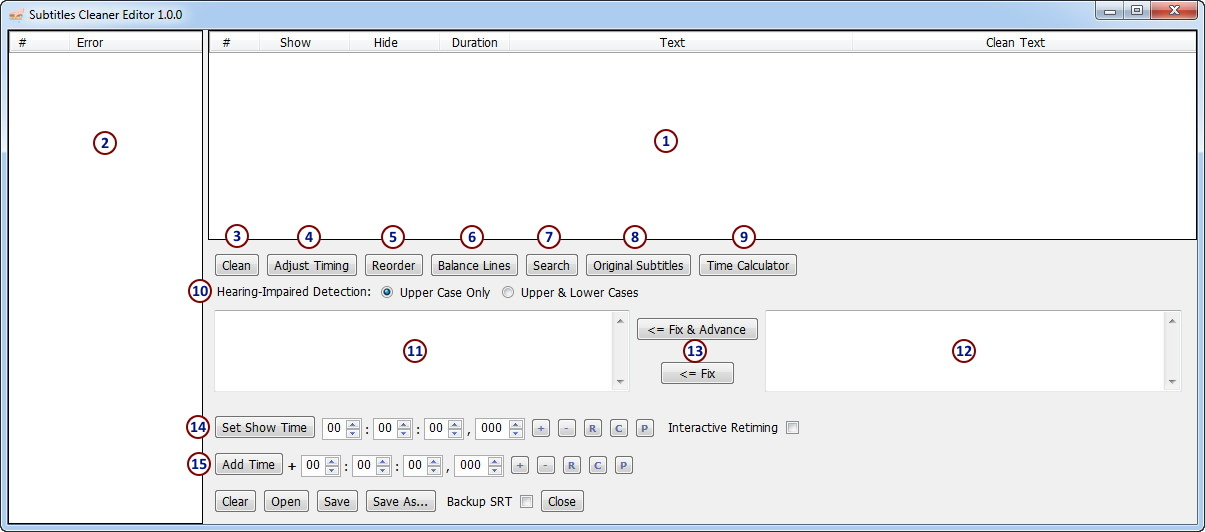
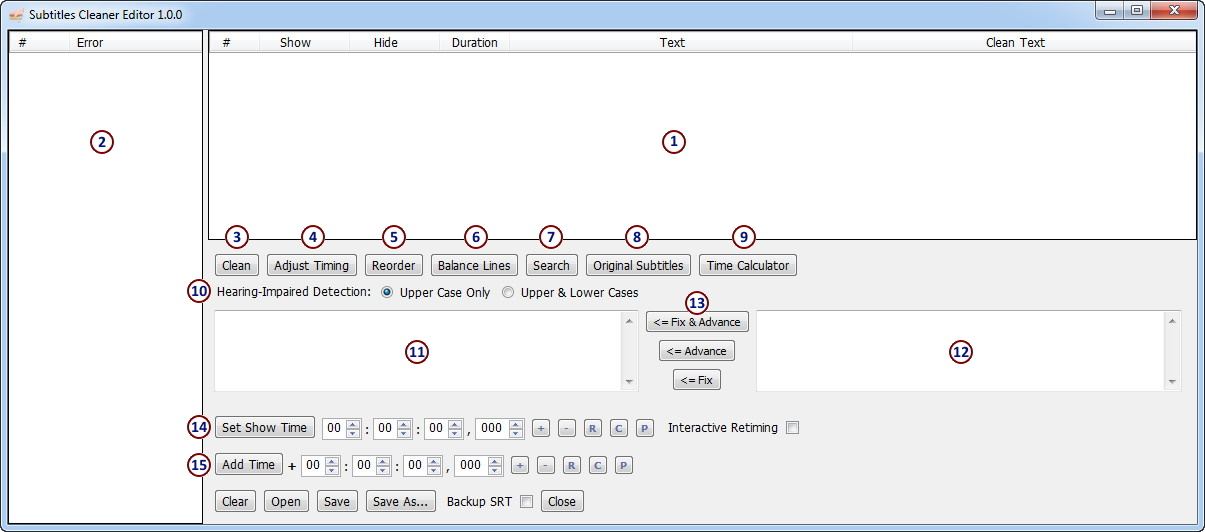
Close #1

diff --git a/SubtitlesCleanerEditor/SubtitlesCleanerEditorForm.Designer.cs b/SubtitlesCleanerEditor/SubtitlesCleanerEditorForm.Designer.cs
@@ -50,11 +50,13 @@
             this.ColumnDuration = new System.Windows.Forms.DataGridViewTextBoxColumn();
             this.ColumnText = new System.Windows.Forms.DataGridViewTextBoxColumn();
             this.ColumnCleanText = new System.Windows.Forms.DataGridViewTextBoxColumn();
+            this.flowLayoutPanel6 = new System.Windows.Forms.FlowLayoutPanel();
+            this.btnFixAndAdvance = new System.Windows.Forms.Button();
+            this.btnAdvance = new System.Windows.Forms.Button();
+            this.btnFix = new System.Windows.Forms.Button();
             this.tableLayoutPanel1 = new System.Windows.Forms.TableLayoutPanel();
             this.lblCleanLineLengths = new System.Windows.Forms.Label();
-            this.btnFixText = new System.Windows.Forms.Button();
             this.lblLineLengths = new System.Windows.Forms.Label();
-            this.btnFixTextAndAdvance = new System.Windows.Forms.Button();
             this.txtCleanSubtitle = new System.Windows.Forms.TextBox();
             this.txtSubtitle = new SubtitlesCleanerEditor.TextBox();
             this.flowLayoutPanel2 = new System.Windows.Forms.FlowLayoutPanel();
@@ -95,6 +97,7 @@
             this.splitContainer2.Panel2.SuspendLayout();
             this.splitContainer2.SuspendLayout();
             ((System.ComponentModel.ISupportInitialize)(this.lstEditor)).BeginInit();
+            this.flowLayoutPanel6.SuspendLayout();
             this.tableLayoutPanel1.SuspendLayout();
             this.flowLayoutPanel2.SuspendLayout();
             this.flowLayoutPanel1.SuspendLayout();
@@ -296,6 +299,64 @@
             this.ColumnCleanText.ReadOnly = true;
             this.ColumnCleanText.Resizable = System.Windows.Forms.DataGridViewTriState.False;
             // 
+            // flowLayoutPanel6
+            // 
+            this.flowLayoutPanel6.AutoSize = true;
+            this.flowLayoutPanel6.AutoSizeMode = System.Windows.Forms.AutoSizeMode.GrowAndShrink;
+            this.flowLayoutPanel6.Controls.Add(this.btnFixAndAdvance);
+            this.flowLayoutPanel6.Controls.Add(this.btnAdvance);
+            this.flowLayoutPanel6.Controls.Add(this.btnFix);
+            this.flowLayoutPanel6.Dock = System.Windows.Forms.DockStyle.Fill;
+            this.flowLayoutPanel6.FlowDirection = System.Windows.Forms.FlowDirection.TopDown;
+            this.flowLayoutPanel6.Location = new System.Drawing.Point(431, 0);
+            this.flowLayoutPanel6.Margin = new System.Windows.Forms.Padding(0);
+            this.flowLayoutPanel6.Name = "flowLayoutPanel6";
+            this.tableLayoutPanel1.SetRowSpan(this.flowLayoutPanel6, 2);
+            this.flowLayoutPanel6.Size = new System.Drawing.Size(111, 88);
+            this.flowLayoutPanel6.TabIndex = 10;
+            // 
+            // btnFixAndAdvance
+            // 
+            this.btnFixAndAdvance.Anchor = System.Windows.Forms.AnchorStyles.None;
+            this.btnFixAndAdvance.AutoSize = true;
+            this.btnFixAndAdvance.AutoSizeMode = System.Windows.Forms.AutoSizeMode.GrowAndShrink;
+            this.btnFixAndAdvance.Font = new System.Drawing.Font("Tahoma", 8F, System.Drawing.FontStyle.Regular, System.Drawing.GraphicsUnit.Point, ((byte)(0)));
+            this.btnFixAndAdvance.Location = new System.Drawing.Point(3, 3);
+            this.btnFixAndAdvance.Name = "btnFixAndAdvance";
+            this.btnFixAndAdvance.Size = new System.Drawing.Size(105, 23);
+            this.btnFixAndAdvance.TabIndex = 7;
+            this.btnFixAndAdvance.Text = "<= Fix && Advance";
+            this.btnFixAndAdvance.UseVisualStyleBackColor = true;
+            this.btnFixAndAdvance.Click += new System.EventHandler(this.btnFixAndAdvance_Click);
+            // 
+            // btnAdvance
+            // 
+            this.btnAdvance.Anchor = System.Windows.Forms.AnchorStyles.None;
+            this.btnAdvance.AutoSize = true;
+            this.btnAdvance.AutoSizeMode = System.Windows.Forms.AutoSizeMode.GrowAndShrink;
+            this.btnAdvance.Font = new System.Drawing.Font("Tahoma", 8F, System.Drawing.FontStyle.Regular, System.Drawing.GraphicsUnit.Point, ((byte)(0)));
+            this.btnAdvance.Location = new System.Drawing.Point(16, 32);
+            this.btnAdvance.Name = "btnAdvance";
+            this.btnAdvance.Size = new System.Drawing.Size(78, 23);
+            this.btnAdvance.TabIndex = 9;
+            this.btnAdvance.Text = "<= Advance";
+            this.btnAdvance.UseVisualStyleBackColor = true;
+            this.btnAdvance.Click += new System.EventHandler(this.btnAdvance_Click);
+            // 
+            // btnFix
+            // 
+            this.btnFix.Anchor = System.Windows.Forms.AnchorStyles.None;
+            this.btnFix.AutoSize = true;
+            this.btnFix.AutoSizeMode = System.Windows.Forms.AutoSizeMode.GrowAndShrink;
+            this.btnFix.Font = new System.Drawing.Font("Tahoma", 8F, System.Drawing.FontStyle.Regular, System.Drawing.GraphicsUnit.Point, ((byte)(0)));
+            this.btnFix.Location = new System.Drawing.Point(30, 61);
+            this.btnFix.Name = "btnFix";
+            this.btnFix.Size = new System.Drawing.Size(50, 23);
+            this.btnFix.TabIndex = 8;
+            this.btnFix.Text = "<= Fix";
+            this.btnFix.UseVisualStyleBackColor = true;
+            this.btnFix.Click += new System.EventHandler(this.btnFix_Click);
+            // 
             // tableLayoutPanel1
             // 
             this.tableLayoutPanel1.Anchor = ((System.Windows.Forms.AnchorStyles)(((System.Windows.Forms.AnchorStyles.Top | System.Windows.Forms.AnchorStyles.Left) 
@@ -304,10 +365,9 @@
             this.tableLayoutPanel1.ColumnStyles.Add(new System.Windows.Forms.ColumnStyle(System.Windows.Forms.SizeType.Percent, 50F));
             this.tableLayoutPanel1.ColumnStyles.Add(new System.Windows.Forms.ColumnStyle());
             this.tableLayoutPanel1.ColumnStyles.Add(new System.Windows.Forms.ColumnStyle(System.Windows.Forms.SizeType.Percent, 50F));
+            this.tableLayoutPanel1.Controls.Add(this.flowLayoutPanel6, 1, 0);
             this.tableLayoutPanel1.Controls.Add(this.lblCleanLineLengths, 2, 2);
-            this.tableLayoutPanel1.Controls.Add(this.btnFixText, 1, 1);
             this.tableLayoutPanel1.Controls.Add(this.lblLineLengths, 0, 2);
-            this.tableLayoutPanel1.Controls.Add(this.btnFixTextAndAdvance, 1, 0);
             this.tableLayoutPanel1.Controls.Add(this.txtCleanSubtitle, 2, 0);
             this.tableLayoutPanel1.Controls.Add(this.txtSubtitle, 0, 0);
             this.tableLayoutPanel1.Location = new System.Drawing.Point(3, 63);
@@ -323,22 +383,10 @@
             // 
             this.lblCleanLineLengths.AutoSize = true;
             this.lblCleanLineLengths.Font = new System.Drawing.Font("Tahoma", 9F, System.Drawing.FontStyle.Bold, System.Drawing.GraphicsUnit.Point, ((byte)(0)));
-            this.lblCleanLineLengths.Location = new System.Drawing.Point(554, 88);
+            this.lblCleanLineLengths.Location = new System.Drawing.Point(545, 88);
             this.lblCleanLineLengths.Name = "lblCleanLineLengths";
             this.lblCleanLineLengths.Size = new System.Drawing.Size(0, 14);
             this.lblCleanLineLengths.TabIndex = 0;
-            // 
-            // btnFixText
-            // 
-            this.btnFixText.Anchor = System.Windows.Forms.AnchorStyles.None;
-            this.btnFixText.AutoSize = true;
-            this.btnFixText.Location = new System.Drawing.Point(449, 54);
-            this.btnFixText.Name = "btnFixText";
-            this.btnFixText.Size = new System.Drawing.Size(75, 24);
-            this.btnFixText.TabIndex = 3;
-            this.btnFixText.Text = "<= Fix";
-            this.btnFixText.UseVisualStyleBackColor = true;
-            this.btnFixText.Click += new System.EventHandler(this.btnFixText_Click);
             // 
             // lblLineLengths
             // 
@@ -349,31 +397,19 @@
             this.lblLineLengths.Size = new System.Drawing.Size(0, 14);
             this.lblLineLengths.TabIndex = 0;
             // 
-            // btnFixTextAndAdvance
-            // 
-            this.btnFixTextAndAdvance.Anchor = System.Windows.Forms.AnchorStyles.None;
-            this.btnFixTextAndAdvance.AutoSize = true;
-            this.btnFixTextAndAdvance.Location = new System.Drawing.Point(425, 10);
-            this.btnFixTextAndAdvance.Name = "btnFixTextAndAdvance";
-            this.btnFixTextAndAdvance.Size = new System.Drawing.Size(123, 24);
-            this.btnFixTextAndAdvance.TabIndex = 2;
-            this.btnFixTextAndAdvance.Text = "<= Fix && Advance";
-            this.btnFixTextAndAdvance.UseVisualStyleBackColor = true;
-            this.btnFixTextAndAdvance.Click += new System.EventHandler(this.btnFixTextAndAdvance_Click);
-            // 
             // txtCleanSubtitle
             // 
             this.txtCleanSubtitle.BackColor = System.Drawing.Color.White;
             this.txtCleanSubtitle.Dock = System.Windows.Forms.DockStyle.Fill;
             this.txtCleanSubtitle.Font = new System.Drawing.Font("Consolas", 11.25F, System.Drawing.FontStyle.Regular, System.Drawing.GraphicsUnit.Point, ((byte)(0)));
             this.txtCleanSubtitle.ForeColor = System.Drawing.Color.Black;
-            this.txtCleanSubtitle.Location = new System.Drawing.Point(554, 3);
+            this.txtCleanSubtitle.Location = new System.Drawing.Point(545, 3);
             this.txtCleanSubtitle.Multiline = true;
             this.txtCleanSubtitle.Name = "txtCleanSubtitle";
             this.txtCleanSubtitle.ReadOnly = true;
             this.tableLayoutPanel1.SetRowSpan(this.txtCleanSubtitle, 2);
             this.txtCleanSubtitle.ScrollBars = System.Windows.Forms.ScrollBars.Vertical;
-            this.txtCleanSubtitle.Size = new System.Drawing.Size(417, 82);
+            this.txtCleanSubtitle.Size = new System.Drawing.Size(426, 82);
             this.txtCleanSubtitle.TabIndex = 4;
             this.txtCleanSubtitle.TextAlign = System.Windows.Forms.HorizontalAlignment.Center;
             // 
@@ -388,7 +424,7 @@
             this.txtSubtitle.Name = "txtSubtitle";
             this.tableLayoutPanel1.SetRowSpan(this.txtSubtitle, 2);
             this.txtSubtitle.ScrollBars = System.Windows.Forms.ScrollBars.Vertical;
-            this.txtSubtitle.Size = new System.Drawing.Size(416, 82);
+            this.txtSubtitle.Size = new System.Drawing.Size(425, 82);
             this.txtSubtitle.TabIndex = 1;
             this.txtSubtitle.TextAlign = System.Windows.Forms.HorizontalAlignment.Center;
             this.txtSubtitle.LeaveWithChangedText += new System.EventHandler<System.Tuple<SubtitlesCleanerEditor.EditorRow, string>>(this.txtSubtitle_LeaveWithChangedText);
@@ -786,6 +822,8 @@
             ((System.ComponentModel.ISupportInitialize)(this.splitContainer2)).EndInit();
             this.splitContainer2.ResumeLayout(false);
             ((System.ComponentModel.ISupportInitialize)(this.lstEditor)).EndInit();
+            this.flowLayoutPanel6.ResumeLayout(false);
+            this.flowLayoutPanel6.PerformLayout();
             this.tableLayoutPanel1.ResumeLayout(false);
             this.tableLayoutPanel1.PerformLayout();
             this.flowLayoutPanel2.ResumeLayout(false);
@@ -846,11 +884,13 @@
         private System.Windows.Forms.DataGridViewTextBoxColumn ColumnText;
         private System.Windows.Forms.DataGridViewTextBoxColumn ColumnCleanText;
         private System.Windows.Forms.TextBox txtCleanSubtitle;
-        private System.Windows.Forms.Button btnFixTextAndAdvance;
-        private System.Windows.Forms.Button btnFixText;
         private System.Windows.Forms.TableLayoutPanel tableLayoutPanel1;
         private System.Windows.Forms.Label lblLineLengths;
         private System.Windows.Forms.Label lblCleanLineLengths;
+        private System.Windows.Forms.Button btnAdvance;
+        private System.Windows.Forms.Button btnFix;
+        private System.Windows.Forms.Button btnFixAndAdvance;
+        private System.Windows.Forms.FlowLayoutPanel flowLayoutPanel6;
     }
 }
 

diff --git a/SubtitlesCleanerEditor/SubtitlesCleanerEditorForm.cs b/SubtitlesCleanerEditor/SubtitlesCleanerEditorForm.cs
@@ -1152,18 +1152,7 @@ namespace SubtitlesCleanerEditor
 
         #region Fix Text
 
-        private void btnFixText_Click(object sender, EventArgs e)
-        {
-            int num = FixText();
-            if (num != -1)
-            {
-                int index = num - 1;
-                if (0 <= index && index <= lstEditor.Rows.Count - 1)
-                    SelectRow(index);
-            }
-        }
-
-        private void btnFixTextAndAdvance_Click(object sender, EventArgs e)
+        private void btnFixAndAdvance_Click(object sender, EventArgs e)
         {
             int num = FixText();
             if (num != -1)
@@ -1171,6 +1160,29 @@ namespace SubtitlesCleanerEditor
                 ErrorRow errorRow = SelectClosestErrorRow(num);
                 if (errorRow != null)
                     SelectRow(errorRow.Num - 1);
+            }
+        }
+
+        private void btnAdvance_Click(object sender, EventArgs e)
+        {
+            EditorRow editorRow = GetSelectedEditorRow();
+            if (editorRow == null)
+                return;
+
+            int num = editorRow.Num + 1;
+            ErrorRow errorRow = SelectClosestErrorRow(num);
+            if (errorRow != null)
+                SelectRow(errorRow.Num - 1);
+        }
+
+        private void btnFix_Click(object sender, EventArgs e)
+        {
+            int num = FixText();
+            if (num != -1)
+            {
+                int index = num - 1;
+                if (0 <= index && index <= lstEditor.Rows.Count - 1)
+                    SelectRow(index);
             }
         }
 
